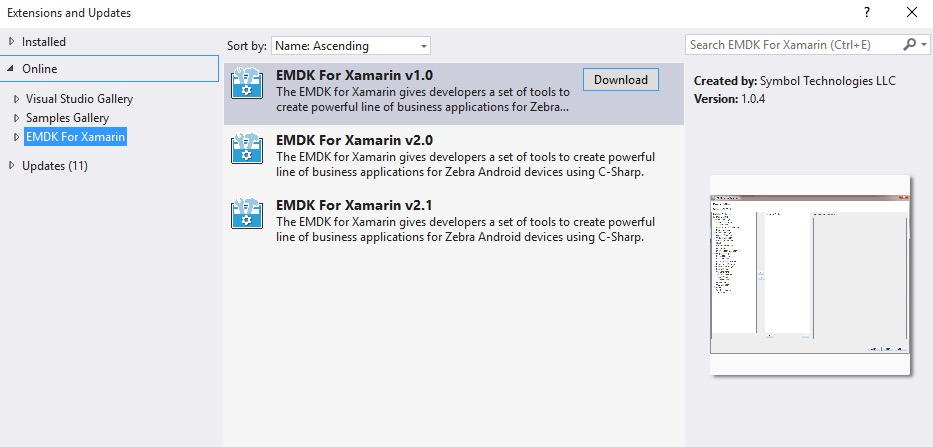
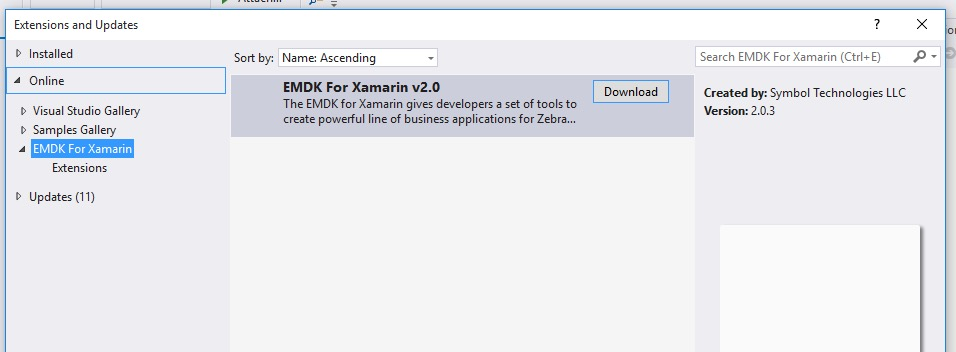
updated xs and vs docs

Changed region(s): [[0.0, 0.0, 1.0, 1.0], [0.2487, 0.4375, 0.7149, 0.5625]]

diff --git a/src/emdk-for-xamarin/2-1/guide/xs/setup/index.md b/src/emdk-for-xamarin/2-1/guide/xs/setup/index.md
@@ -55,8 +55,8 @@ The previous section described a typical way to install the EMDK-For Xamarin Add
 
 6. In the `Url` field enter the appropriate url for the version you wish to install.
 	
-	* Version 1.0.5: http://techdocs.zebra.com/emdk-for-xamarin/download/xs/1.0.5/main.mrep
-	* Version 2.0.4.7: http://techdocs.zebra.com/emdk-for-xamarin/download/xs/2.0.4.7/main.mrep
+	* Version 1.0.5 [for Xamarin Studio 5.x]: http://techdocs.zebra.com/emdk-for-xamarin/download/xs/1.0.5/main.mrep
+	* Version 2.0.4.7 [for Xamarin Studio 5.x]: http://techdocs.zebra.com/emdk-for-xamarin/download/xs/2.0.4.7/main.mrep
 	* Version 2.1.0.6 [for Xamarin Studio 5.x]: http://techdocs.zebra.com/emdk-for-xamarin/download/xs/2.1.0.6/main.mrep
 	* Version 2.1.1.1 [for Xamarin Studio 6.x]: http://techdocs.zebra.com/emdk-for-xamarin/download/xs/2.1.1.1/main.mrep
 

diff --git a/src/emdk-for-xamarin/2-1/guide/vs/setup/index.md b/src/emdk-for-xamarin/2-1/guide/vs/setup/index.md
@@ -53,7 +53,11 @@ The previous section described a typical way to install the EMDK-For Xamarin Ext
 
 5. Enter `EMDK for Xamarin` for the `Name` field.
 
-6. Enter `http://techdocs.zebra.com/emdk-for-xamarin/download/vs/atom.xml` for the `URL` field.
+6. Enter the followin for the `URL` field depending on which version you wish to install.
+
+	* 1.0 : `http://techdocs.zebra.com/emdk-for-xamarin/download/vs/v1.0/atom.xml`
+	* 2.0 : `http://techdocs.zebra.com/emdk-for-xamarin/download/vs/v2.0/atom.xml`
+	* 2.1 : `http://techdocs.zebra.com/emdk-for-xamarin/download/vs/v2.1/atom.xml`
 
 	![img](../../../images/vs/options-extensions-added-techdocs.jpg)
 
